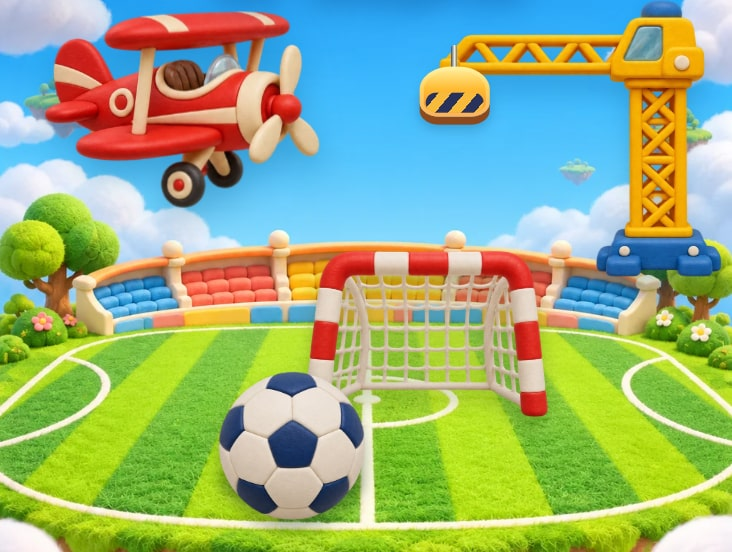
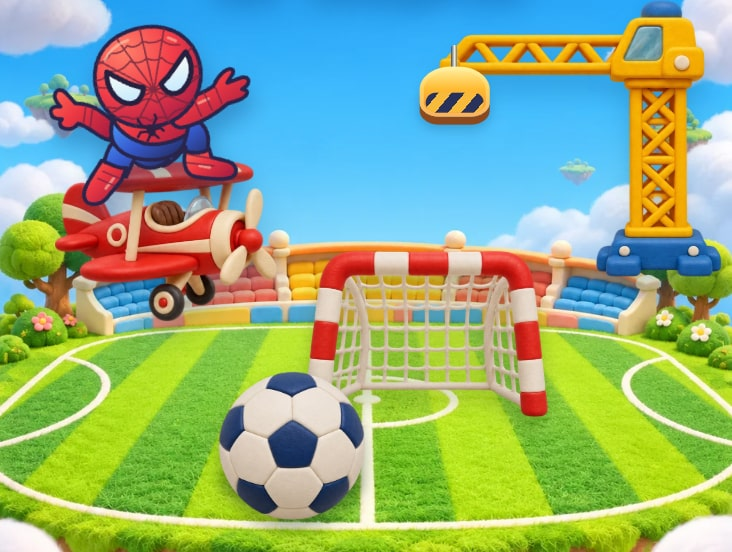
Refresh Cloud Kick playground card

Changed region(s): [[0.0601, 0.0, 0.4508, 0.6159]]

diff --git a/index.html b/index.html
@@ -65,13 +65,13 @@
           <article class="project-card cloud-card">
             <a href="https://amitshe.github.io/cloud-kick/" aria-label="לשחק בכדור בעננים">
               <div class="project-image">
-                <img src="assets/cloud-kick.jpg" alt="מטוס אדום, מנוף צהוב וכדורגל מעל מגרש בעננים" loading="lazy">
+                <img src="assets/cloud-kick.jpg?v=2" alt="ספיידרמן, מטוס ומנוף מעל מגרש כדורגל בעננים" loading="lazy">
                 <span class="image-corner" aria-hidden="true">↗</span>
               </div>
               <div class="project-content">
                 <span class="project-kind">משחק לקטנטנים</span>
                 <h3>כדור בעננים</h3>
-                <p>מקפיצים כדור למטוס, מורידים אותו במנוף ומבקיעים במגרש שבשמיים.</p>
+                <p>מכוונים בעיטה, תופסים כדור עם ספיידרמן ומשחררים אותו ממנוף מעל השער.</p>
                 <span class="project-link">לפתוח ולשחק <span aria-hidden="true">←</span></span>
               </div>
             </a>

diff --git a/README.md b/README.md
@@ -10,7 +10,7 @@
 
 ## מה נמצא באתר
 
-- [כדור בעננים](https://amitshe.github.io/cloud-kick/) — משחק מגע לקטנטנים עם כדורגל, מטוס ומנוף. [קוד מקור](https://github.com/AmitShe/cloud-kick).
+- [כדור בעננים](https://amitshe.github.io/cloud-kick/) — שלושה אתגרי מגע לקטנטנים עם ספיידרמן, כדורגל, מטוס ומנוף. [קוד מקור](https://github.com/AmitShe/cloud-kick).
 - [Tidelight](https://amitshe.github.io/tidelight/) — משחק מגע עם מגדלור וסירות.
 - [דיסקו פיג׳מות](https://amitshe.github.io/pajama-disco/) — משחק ריקוד מוזיקלי שנוצר עבור איימי.
 - [קוד המקור של Tidelight](https://github.com/AmitShe/tidelight) ו[קוד המקור של דיסקו פיג׳מות](https://github.com/AmitShe/pajama-disco) נמצאים בריפוזיטוריז נפרדים.
